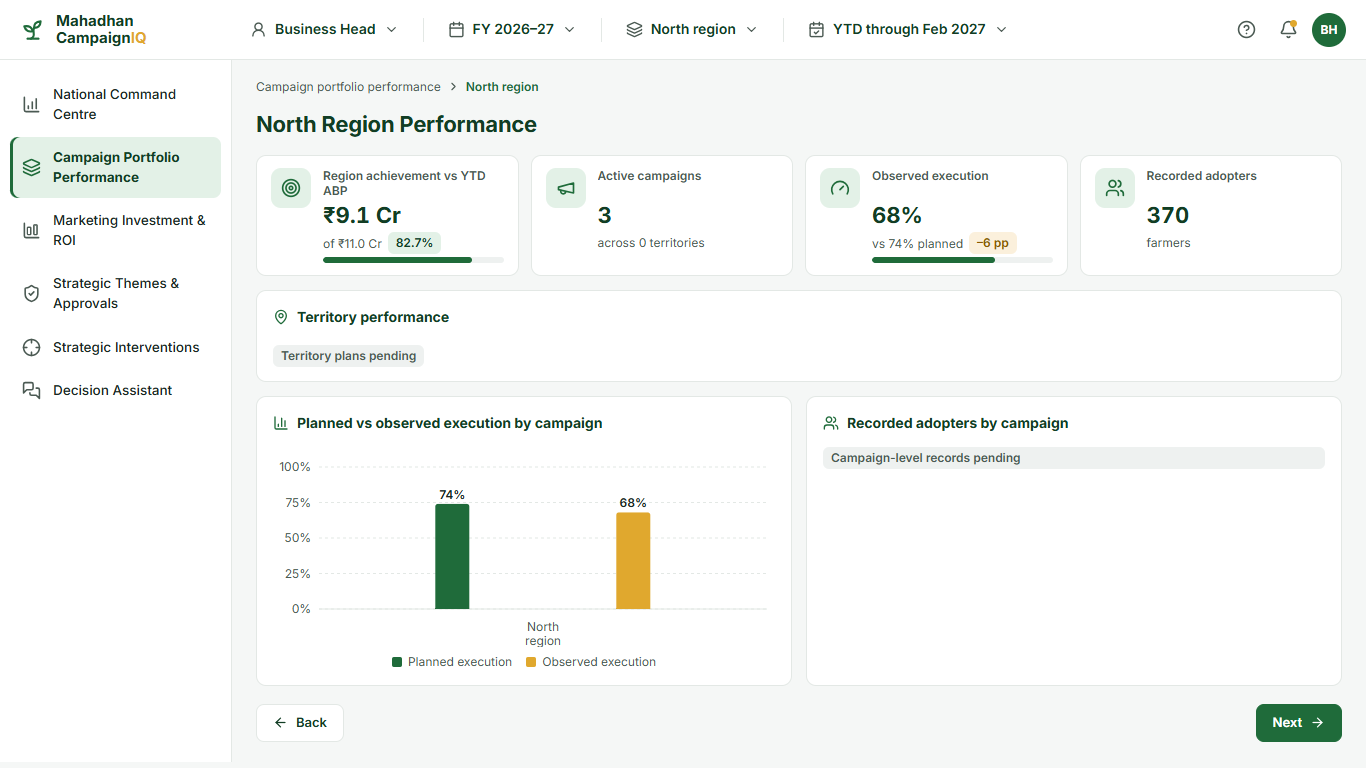
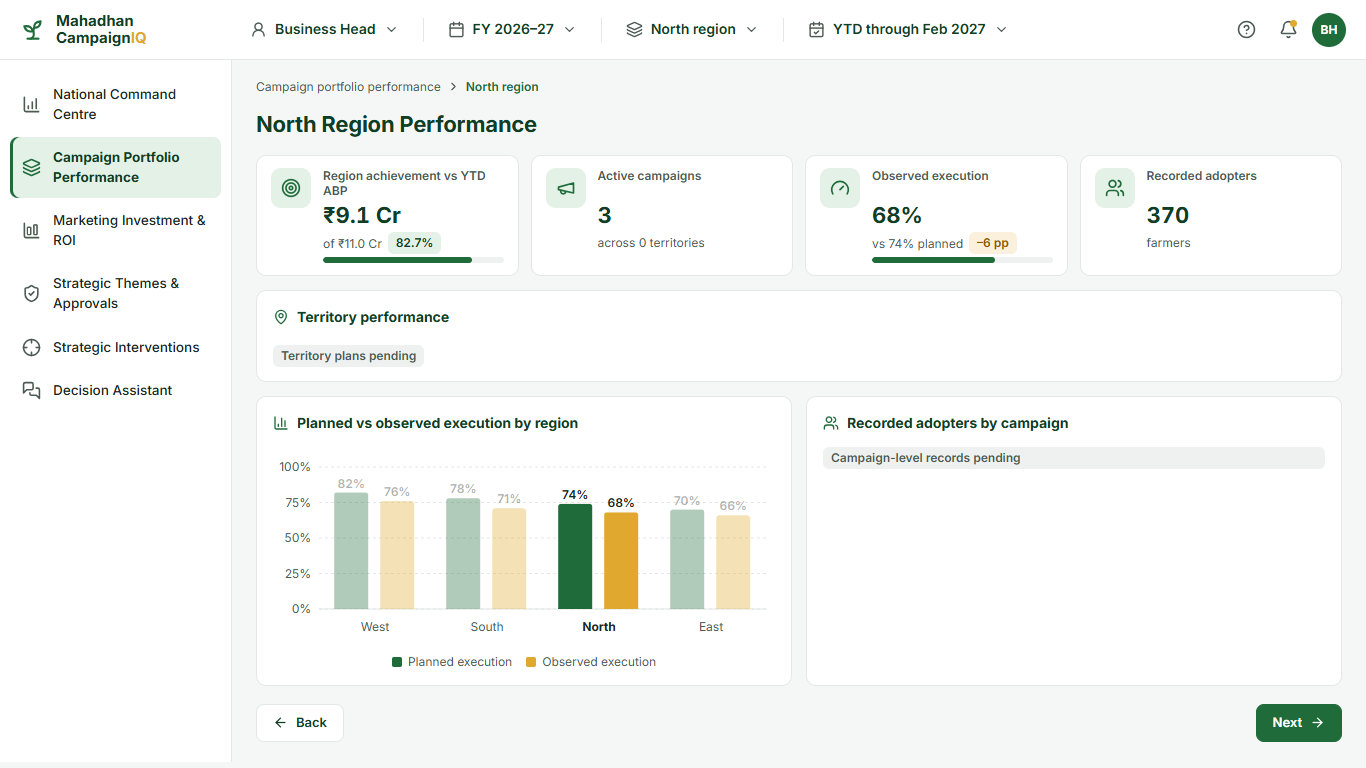
BH: regional charts show all regions

Changed region(s): [[0.246, 0.625, 0.5534, 0.8438], [0.3997, 0.5312, 0.4612, 0.5625]]

diff --git a/campaigniq-v3/src/screens/Investment.tsx b/campaigniq-v3/src/screens/Investment.tsx
@@ -4,7 +4,6 @@
  */
 import { ArrowLeftRight, Calculator, CalendarClock, CalendarDays, ChartColumn, ChartColumnBig, Coins, FileSearch, Percent, RotateCcw, Save, Scale, ShieldCheck, ShoppingCart, Target, TrendingUp, Users, Wallet } from 'lucide-react';
 import { useState, type ReactNode } from 'react';
-import { Bar as RBar, BarChart, Cell, LabelList, ReferenceLine, ResponsiveContainer, Tooltip, XAxis, YAxis } from 'recharts';
 import { useSearchParams } from 'react-router-dom';
 import {
   businessCase, CAMPAIGNS, nationalReturns, netRoi, regionRoi, campaignById, campaignMetrics, campaignsOf, campaignTotals, CROP_MIX, DEFAULT_REALLOCATION, NATIONAL, NATIONAL_METRICS,
@@ -13,7 +12,8 @@ import {
 import { crore, lakh, num, pct, rupees, sum, times } from '../data/format';
 import { R } from '../routes';
 import { useBhStore } from '../store/bhStore';
-import { C, SERIES } from '../theme';
+import { RegionBarsCard } from './RegionBars';
+import { SERIES } from '../theme';
 import { GroupedBars, HBars, Legend, Waterfall } from '../ui/charts';
 import { Bar, Breadcrumb, Button, Card, FilterBar, FooterBar, KpiCard, PageHeader, SegmentedControl, Select, StatusChip } from '../ui/core';
 import { DataTable } from '../ui/DataTable';
@@ -27,36 +27,12 @@ function StatusList({ items }: { items: { icon: typeof Coins; label: string; val
 }
 
 // ================================================================ shared card: investment per recorded adopter
-/** All four regions, highest first; the scope region in amber with a bold label; dashed national average line. */
 function PerAdopterCard({ scope }: { scope: RegionId | null }) {
-  const rows = [...REGIONS].sort((a, b) => regionMetrics(b).perAdopter - regionMetrics(a).perAdopter)
-    .map((r) => ({ id: r.id, name: r.name, value: regionMetrics(r).perAdopter, actual: r.actual, adopters: r.adopters }));
-  const avg = NATIONAL_METRICS.perAdopter;
-  const max = Math.ceil((rows[0].value * 1.08) / 1000) * 1000;
-  const Tick = ({ x, y, payload }: { x?: number; y?: number; payload?: { value: string } }) => (
-    <text x={x} y={y} dy={4} textAnchor="end" fontSize={13} fill={C.ink} fontWeight={rows.find((r) => r.name === payload?.value)?.id === scope ? 700 : 400}>{payload?.value}</text>
-  );
   return (
-    <Card title="Investment per recorded adopter" icon={Users}>
-      <div className="muted" style={{ fontSize: 12, marginTop: -6 }}>Actual investment ÷ recorded adopters, YTD</div>
-      <div style={{ flex: 1, minHeight: 180 }}>
-        <ResponsiveContainer width="100%" height="100%">
-          <BarChart data={rows} layout="vertical" margin={{ top: 18, right: 64, left: 4, bottom: 0 }} barCategoryGap="28%">
-            <XAxis type="number" hide domain={[0, max]} />
-            <YAxis type="category" dataKey="name" width={56} tick={<Tick />} axisLine={false} tickLine={false} />
-            <Tooltip cursor={{ fill: C.canvas }} content={({ active, payload }) => {
-              const p = active && payload?.[0]?.payload as (typeof rows)[number] | undefined;
-              return p ? <div className="toast" style={{ background: C.card, color: C.ink, border: `1px solid ${C.line}` }}>Investment {lakh(p.actual)} · Adopters {num(p.adopters)} · {rupees(p.value)} per adopter</div> : null;
-            }} />
-            <ReferenceLine x={avg} stroke={C.inkSoft} strokeDasharray="4 4" label={{ value: `National avg ${rupees(avg)}`, position: 'top', fontSize: 12, fill: C.inkSoft }} />
-            <RBar dataKey="value" barSize={16} radius={[0, 3, 3, 0]} isAnimationActive={false}>
-              {rows.map((r) => <Cell key={r.id} fill={r.id === scope ? C.amber : C.brand} />)}
-              <LabelList dataKey="value" position="right" formatter={(v: number) => rupees(v)} style={{ fontSize: 12, fontWeight: 600, fill: C.ink }} />
-            </RBar>
-          </BarChart>
-        </ResponsiveContainer>
-      </div>
-    </Card>
+    <RegionBarsCard title="Investment per recorded adopter" icon={Users} sub="Actual investment ÷ recorded adopters, YTD" scope={scope}
+      value={(r) => regionMetrics(r).perAdopter} format={rupees}
+      reference={{ value: NATIONAL_METRICS.perAdopter, label: `National avg ${rupees(NATIONAL_METRICS.perAdopter)}` }}
+      tooltip={(r) => `Investment ${lakh(r.actual)} · Adopters ${num(r.adopters)} · ${rupees(regionMetrics(r).perAdopter)} per adopter`} />
   );
 }
 
@@ -136,7 +112,7 @@ export function InvestmentRoi() {
 
       <div className="grid" style={{ gridTemplateColumns: '1.15fr 1fr .8fr' }}>
         <Card title="Approved vs actual marketing investment" note="₹ lakh" icon={ChartColumn}>
-          <GroupedBars data={regions.map((r) => ({ region: r.name, approved: r.approved, actual: r.actual }))} x="region"
+          <GroupedBars data={REGIONS.map((r) => ({ region: r.name, approved: r.approved, actual: r.actual }))} x="region" highlight={region === ALL ? undefined : regionById(region as RegionId).name}
             series={[{ key: 'approved', label: 'Approved', color: SERIES.planned }, { key: 'actual', label: 'Actual', color: SERIES.observed }]} />
         </Card>
         <PerAdopterCard scope={region === ALL ? null : (region as RegionId)} />

diff --git a/campaigniq-v3/src/ui/charts.tsx b/campaigniq-v3/src/ui/charts.tsx
@@ -5,11 +5,11 @@ import { C } from '../theme';
 const AXIS = { fontSize: 12, fill: C.inkSoft };
 
 /** X-axis tick that wraps long category names onto two lines. */
-function WrapTick({ x, y, payload }: { x?: number; y?: number; payload?: { value: string } }) {
+function WrapTick({ x, y, payload, bold }: { x?: number; y?: number; payload?: { value: string }; bold?: string }) {
   const words = String(payload?.value ?? '').split(' ');
   const lines = words.length > 1 ? [words.slice(0, Math.ceil(words.length / 2)).join(' '), words.slice(Math.ceil(words.length / 2)).join(' ')] : words;
   return (
-    <text x={x} y={y} textAnchor="middle" fontSize={12} fill={C.inkSoft}>
+    <text x={x} y={y} textAnchor="middle" fontSize={12} fill={bold && payload?.value === bold ? C.ink : C.inkSoft} fontWeight={bold && payload?.value === bold ? 700 : 400}>
       {lines.map((l, i) => <tspan key={l} x={x} dy={i === 0 ? 14 : 14}>{l}</tspan>)}
     </text>
   );
@@ -18,16 +18,18 @@ function WrapTick({ x, y, payload }: { x?: number; y?: number; payload?: { value
 export interface Series { key: string; label: string; color: string }
 
 /** Vertical grouped columns with value labels on top. */
-export function GroupedBars<T extends Record<string, unknown>>({ data, x, series, height = 200, unit = '', max }: { data: T[]; x: keyof T & string; series: Series[]; height?: number; unit?: string; max?: number }) {
+/** `highlight` = x value of the selected category: bold label, other categories faded. */
+export function GroupedBars<T extends Record<string, unknown>>({ data, x, series, height = 200, unit = '', max, highlight }: { data: T[]; x: keyof T & string; series: Series[]; height?: number; unit?: string; max?: number; highlight?: string }) {
   return (
     <div style={{ display: 'flex', flexDirection: 'column', gap: 6 }}>
       <ResponsiveContainer width="100%" height={height}>
         <BarChart data={data} margin={{ top: 20, right: 8, left: -14, bottom: 0 }} barGap={4}>
           <CartesianGrid vertical={false} stroke={C.line} strokeDasharray="3 3" />
-          <XAxis dataKey={x} tick={<WrapTick />} height={38} axisLine={{ stroke: C.line }} tickLine={false} interval={0} />
+          <XAxis dataKey={x} tick={<WrapTick bold={highlight} />} height={38} axisLine={{ stroke: C.line }} tickLine={false} interval={0} />
           <YAxis tick={AXIS} axisLine={false} tickLine={false} domain={[0, max ?? 'auto']} tickFormatter={(v) => `${v}${unit}`} />
           {series.map((s) => (
             <Bar key={s.key} dataKey={s.key} name={s.label} fill={s.color} radius={[3, 3, 0, 0]} maxBarSize={34} isAnimationActive={false}>
+              {data.map((d) => <Cell key={String(d[x])} fill={s.color} fillOpacity={highlight && d[x] !== highlight ? 0.35 : 1} />)}
               <LabelList dataKey={s.key} position="top" style={{ fontSize: 12, fontWeight: 600, fill: C.ink }} formatter={(v: number) => `${v}${unit}`} />
             </Bar>
           ))}
@@ -113,7 +115,8 @@ export function Donut({ parts, center, sub, size = 150 }: { parts: { label: stri
 }
 
 /** Count grid with tint intensity by value. */
-export function HeatGrid({ rows, cols, value, onCell, total }: {
+export function HeatGrid({ rows, cols, value, onCell, total, highlight }: {
+  highlight?: string;
   rows: { key: string; label: string }[];
   cols: { key: string; label: string }[];
   value: (r: string, c: string) => number;
@@ -129,7 +132,7 @@ export function HeatGrid({ rows, cols, value, onCell, total }: {
       <tbody>
         {rows.map((r) => (
           <tr key={r.key}>
-            <td className="lab">{r.label}</td>
+            <td className="lab" style={highlight ? { fontWeight: r.key === highlight ? 800 : 400, color: r.key === highlight ? C.dark : C.inkSoft } : undefined}>{r.label}{r.key === highlight ? ' ●' : ''}</td>
             {cols.map((c) => {
               const v = value(r.key, c.key);
               return <td key={c.key} className={onCell ? 'click' : undefined} style={{ background: bg(v) }} onClick={onCell ? () => onCell(r.key, c.key) : undefined}>{v}</td>;

diff --git a/campaigniq-v3/src/screens/RegionBars.tsx b/campaigniq-v3/src/screens/RegionBars.tsx
@@ -1,0 +1,48 @@
+/**
+ * Region comparison card: always all four regions (the region filter never hides regions), sorted high → low,
+ * brand bars, the scope region in amber with a bold label, a dashed reference line, value at the bar end, tooltip.
+ */
+import type { LucideIcon } from 'lucide-react';
+import { Bar, BarChart, Cell, LabelList, ReferenceLine, ResponsiveContainer, Tooltip, XAxis, YAxis } from 'recharts';
+import { REGIONS, type Region, type RegionId } from '../data/bh';
+import { C } from '../theme';
+import { Card } from '../ui/core';
+
+export function RegionBarsCard({ title, icon, sub, scope, value, format, reference, tooltip }: {
+  title: string;
+  icon: LucideIcon;
+  sub: string;
+  scope: RegionId | null;
+  value: (r: Region) => number;
+  format: (v: number) => string;
+  reference: { value: number; label: string };
+  tooltip: (r: Region) => string;
+}) {
+  const rows = [...REGIONS].sort((a, b) => value(b) - value(a)).map((r) => ({ id: r.id, name: r.name, v: value(r), r }));
+  const max = rows[0].v * 1.08;
+  const Tick = ({ x, y, payload }: { x?: number; y?: number; payload?: { value: string } }) => (
+    <text x={x} y={y} dy={4} textAnchor="end" fontSize={13} fill={C.ink} fontWeight={rows.find((r) => r.name === payload?.value)?.id === scope ? 700 : 400}>{payload?.value}</text>
+  );
+  return (
+    <Card title={title} icon={icon}>
+      <div className="muted" style={{ fontSize: 12, marginTop: -6 }}>{sub}</div>
+      <div style={{ flex: 1, minHeight: 180 }}>
+        <ResponsiveContainer width="100%" height="100%">
+          <BarChart data={rows} layout="vertical" margin={{ top: 18, right: 64, left: 4, bottom: 0 }} barCategoryGap="28%">
+            <XAxis type="number" hide domain={[0, max]} />
+            <YAxis type="category" dataKey="name" width={56} tick={<Tick />} axisLine={false} tickLine={false} />
+            <Tooltip cursor={{ fill: C.canvas }} content={({ active, payload }) => {
+              const p = active ? (payload?.[0]?.payload as (typeof rows)[number] | undefined) : undefined;
+              return p ? <div className="toast" style={{ background: C.card, color: C.ink, border: `1px solid ${C.line}` }}>{tooltip(p.r)}</div> : null;
+            }} />
+            <ReferenceLine x={reference.value} stroke={C.inkSoft} strokeDasharray="4 4" label={{ value: reference.label, position: 'top', fontSize: 12, fill: C.inkSoft }} />
+            <Bar dataKey="v" barSize={16} radius={[0, 3, 3, 0]} isAnimationActive={false}>
+              {rows.map((r) => <Cell key={r.id} fill={r.id === scope ? C.amber : C.brand} />)}
+              <LabelList dataKey="v" position="right" formatter={(v: number) => format(v)} style={{ fontSize: 12, fontWeight: 600, fill: C.ink }} />
+            </Bar>
+          </BarChart>
+        </ResponsiveContainer>
+      </div>
+    </Card>
+  );
+}

diff --git a/campaigniq-v3/src/screens/Themes.tsx b/campaigniq-v3/src/screens/Themes.tsx
@@ -13,6 +13,7 @@ import {
 import { crore, lakh, num, pct, times } from '../data/format';
 import { R } from '../routes';
 import { useBhStore, type ThemeDecision } from '../store/bhStore';
+import { RegionBarsCard } from './RegionBars';
 import { SERIES } from '../theme';
 import { HBars, Legend } from '../ui/charts';
 import { Breadcrumb, Button, Card, FilterBar, FooterBar, KpiCard, PageHeader, PanelFooter, SegmentedControl, Select, StatusChip, STEPS, WorkflowStepper } from '../ui/core';
@@ -55,7 +56,6 @@ export function MarketOpportunity() {
       { icon: Layers, label: 'Active campaigns', value: String(selRegion.campaigns) },
       { icon: Sprout, label: 'Crop and product records', value: 'Pending' },
     ];
-  const gapRows = [...regions].sort((x, y) => regionMetrics(y).gap - regionMetrics(x).gap);
 
   return (
     <div className="page">
@@ -88,9 +88,10 @@ export function MarketOpportunity() {
         />
       </Card>
       <div className="grid" style={{ gridTemplateColumns: '.9fr 1fr 1.25fr' }}>
-        <Card title="Regional business gaps" note="₹ Cr" icon={ChartColumn}>
-          <HBars labelWidth={60} rows={gapRows.map((r) => ({ label: r.name, values: [regionMetrics(r).gap / 100] }))} series={[{ key: 'g', label: 'Business gap', color: SERIES.planned }]} max={Math.max(...gapRows.map((r) => regionMetrics(r).gap / 100))} format={(v) => `₹${v.toFixed(1)} Cr`} />
-        </Card>
+        <RegionBarsCard title="Regional business gaps" icon={ChartColumn} sub={`YTD ABP − actual sales · total ${crore(NATIONAL_METRICS.gap, 1)}`} scope={region === ALL ? null : (region as RegionId)}
+          value={(r) => regionMetrics(r).gap} format={(v) => crore(v, 1)}
+          reference={{ value: NATIONAL_METRICS.gap / REGIONS.length, label: `Avg ${crore(NATIONAL_METRICS.gap / REGIONS.length, 1)}` }}
+          tooltip={(r) => `ABP ${crore(r.abp, 1)} · Actual ${crore(r.achieved, 1)} · Gap ${crore(regionMetrics(r).gap, 1)} (${pct((regionMetrics(r).gap / r.abp) * 100)})`} />
         <Card title="Crop × product × geography opportunity" icon={MapPin}>
           <div className="row" style={{ flexWrap: 'wrap' }}>
             {selRegion.id === 'west'

diff --git a/campaigniq-v3/src/screens/RegionalPerformance.tsx b/campaigniq-v3/src/screens/RegionalPerformance.tsx
@@ -1,6 +1,6 @@
 /** Screen 3 — Regional Performance (no mockup; same anatomy as the territory screen). */
 import { ChartColumn, Gauge, MapPin, Megaphone, Target, Users } from 'lucide-react';
-import { campaignsOf, regionById, regionMetrics, territoriesOf } from '../data/bh';
+import { campaignsOf, REGIONS, regionById, regionMetrics, territoriesOf } from '../data/bh';
 import { crore, num, pct, pp, ratio, sum } from '../data/format';
 import { R } from '../routes';
 import { SERIES } from '../theme';
@@ -52,12 +52,12 @@ export function RegionalPerformance() {
       </Card>
 
       <div className="grid g2">
-        <Card title="Planned vs observed execution by campaign" icon={ChartColumn}>
+        <Card title={`Planned vs observed execution by ${camps.length ? 'campaign' : 'region'}`} icon={ChartColumn}>
           {camps.length ? (
             <GroupedBars data={camps.map((c) => ({ name: c.short, planned: c.plannedExec, observed: c.observedExec }))} x="name" unit="%" max={100}
               series={[{ key: 'planned', label: 'Planned execution', color: SERIES.planned }, { key: 'observed', label: 'Observed execution', color: SERIES.observed }]} />
           ) : (
-            <GroupedBars data={[{ name: `${r.name} region`, planned: r.plannedExec, observed: r.observedExec }]} x="name" unit="%" max={100}
+            <GroupedBars data={REGIONS.map((x) => ({ name: x.name, planned: x.plannedExec, observed: x.observedExec }))} x="name" unit="%" max={100} highlight={r.name}
               series={[{ key: 'planned', label: 'Planned execution', color: SERIES.planned }, { key: 'observed', label: 'Observed execution', color: SERIES.observed }]} />
           )}
         </Card>

diff --git a/campaigniq-v3/src/screens/CommandCentre.tsx b/campaigniq-v3/src/screens/CommandCentre.tsx
@@ -93,7 +93,7 @@ export function CommandCentre() {
       <div className="grid" style={{ gridTemplateColumns: '1fr 1.3fr 1fr' }}>
         <Card title="Regional execution comparison (planned vs observed)" icon={ChartColumn}>
           <GroupedBars
-            data={rows.map((r) => ({ region: r.name, planned: r.plannedExec, observed: r.observedExec }))}
+            data={REGIONS.map((r) => ({ region: r.name, planned: r.plannedExec, observed: r.observedExec }))} highlight={region === ALL ? undefined : REGIONS.find((r) => r.id === region)?.name}
             x="region" unit="%" max={100}
             series={[{ key: 'planned', label: 'Planned execution', color: SERIES.planned }, { key: 'observed', label: 'Observed execution', color: SERIES.observed }]}
           />

diff --git a/campaigniq-v3/src/screens/Portfolio.tsx b/campaigniq-v3/src/screens/Portfolio.tsx
@@ -79,7 +79,8 @@ export function Portfolio() {
       <div className="grid g2">
         <Card title="Region × theme: active campaign count" icon={Table2}>
           <HeatGrid
-            rows={regions.map((r) => ({ key: r.id, label: r.name }))}
+            rows={REGIONS.map((r) => ({ key: r.id, label: r.name }))}
+            highlight={region === ALL ? undefined : region}
             cols={themes.map((t) => ({ key: t.id, label: t.short }))}
             value={(r, t) => REGIONS.find((x) => x.id === r)!.themeMix[t as ThemeId]}
             onCell={(r) => go(R.region(r as RegionId))}
